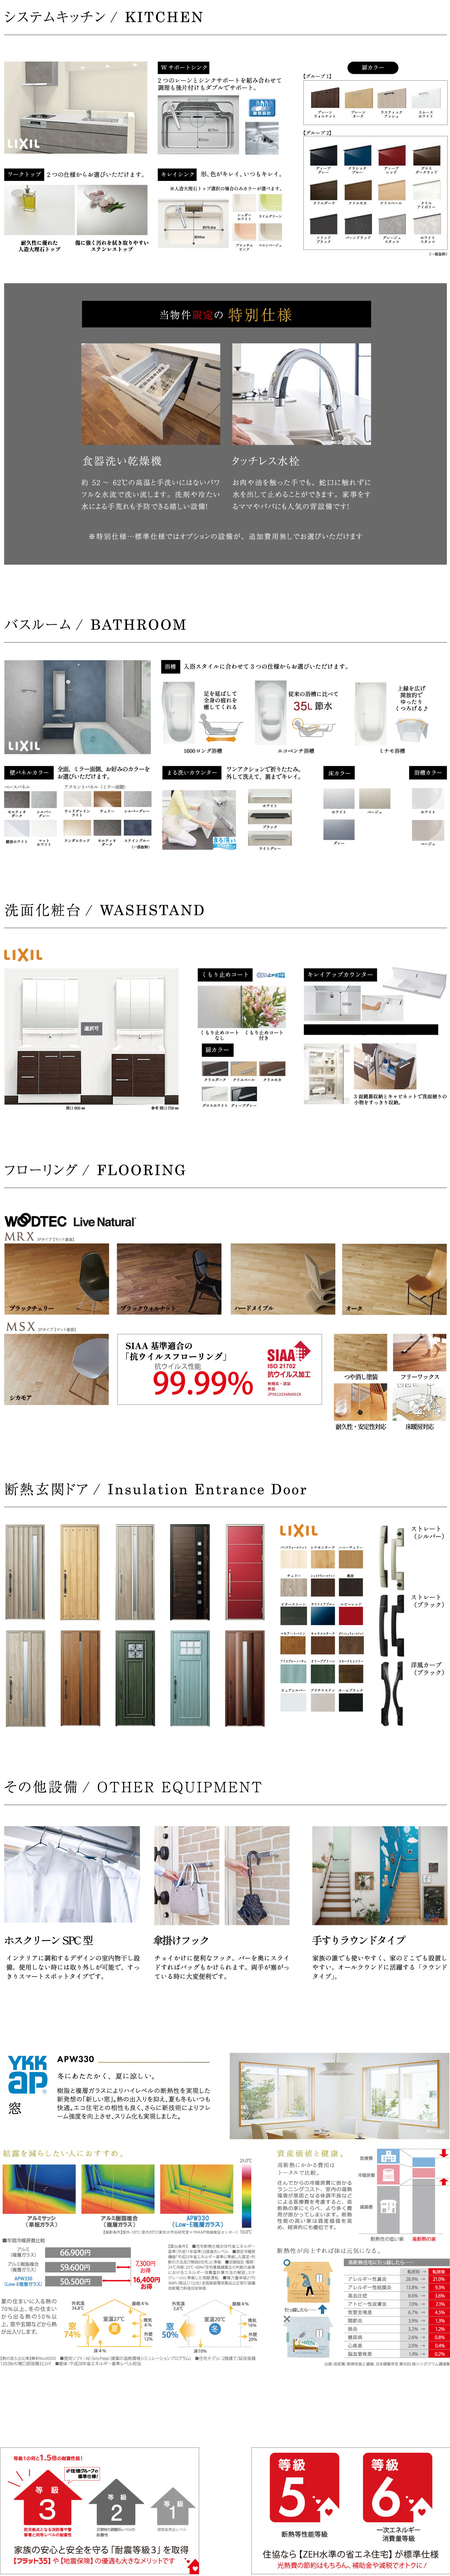
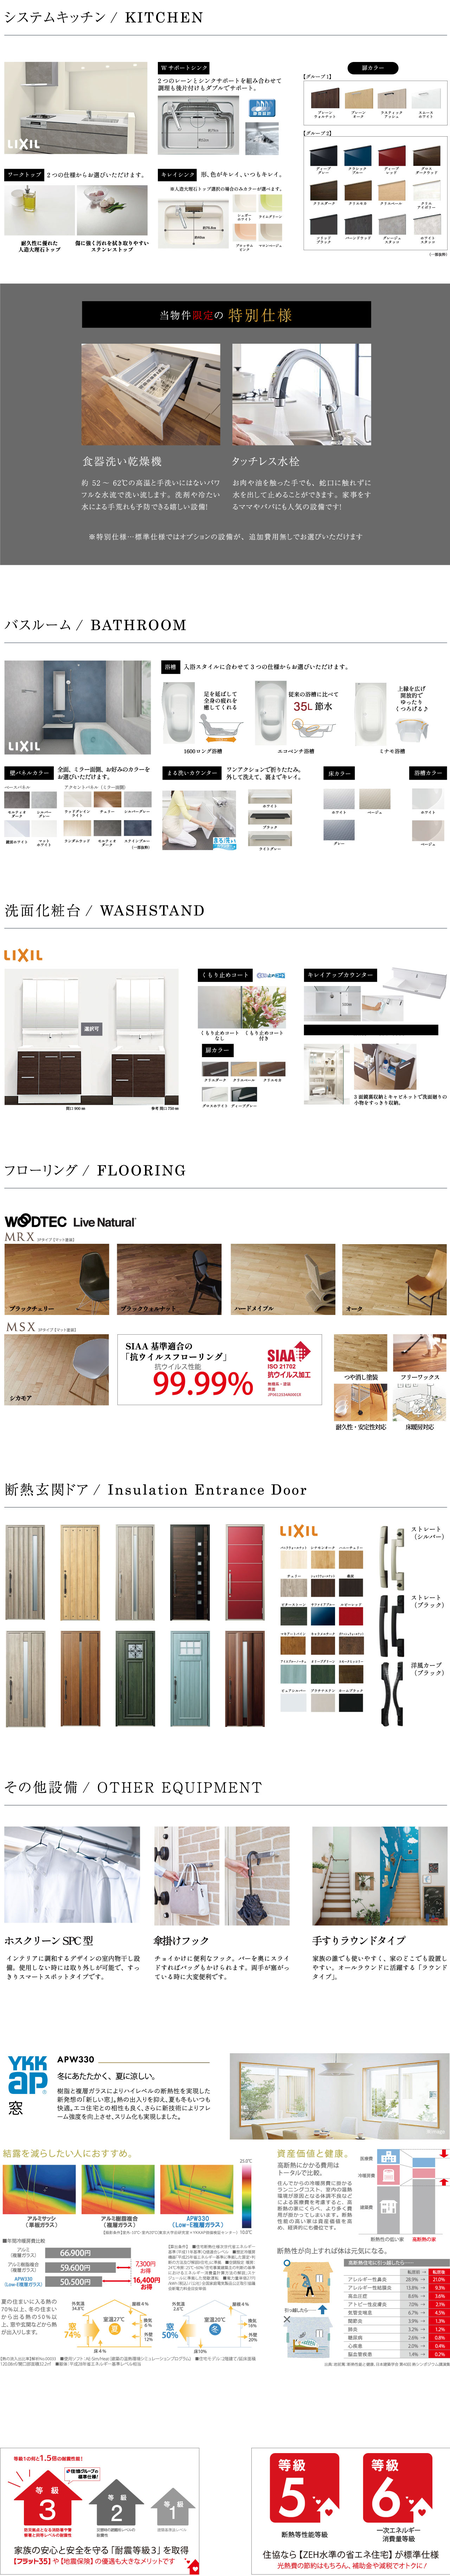
モーダル > 画像修正更新

diff --git a/index.html b/index.html
@@ -134,7 +134,8 @@
                 <div class="popup-img">
                     <!-- ここに画像のパスを書き込む -->
                     <img class="tb-pc" src="images/bg/setsubi_modal.jpg"   alt="各施設一覧">
-                    <img class="sp"    src="images/bg/setsubi_modal_s.jpg" alt="各施設一覧">
+                    <img class="sp"    src="images/bg/setsubi_modal01_s.jpg" alt="各施設一覧">
+                    <img class="sp"    src="images/bg/setsubi_modal02_s.jpg" alt="各施設一覧">
                 </div>
             </div>
         </div>
